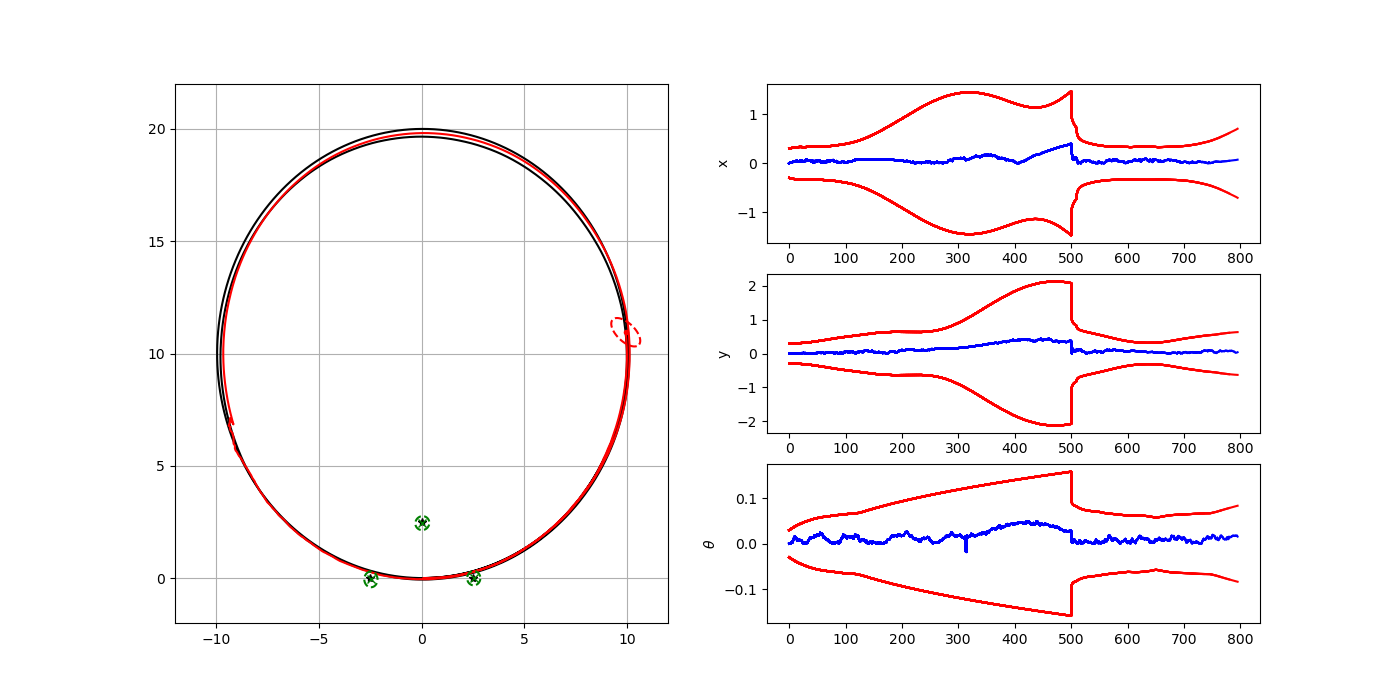
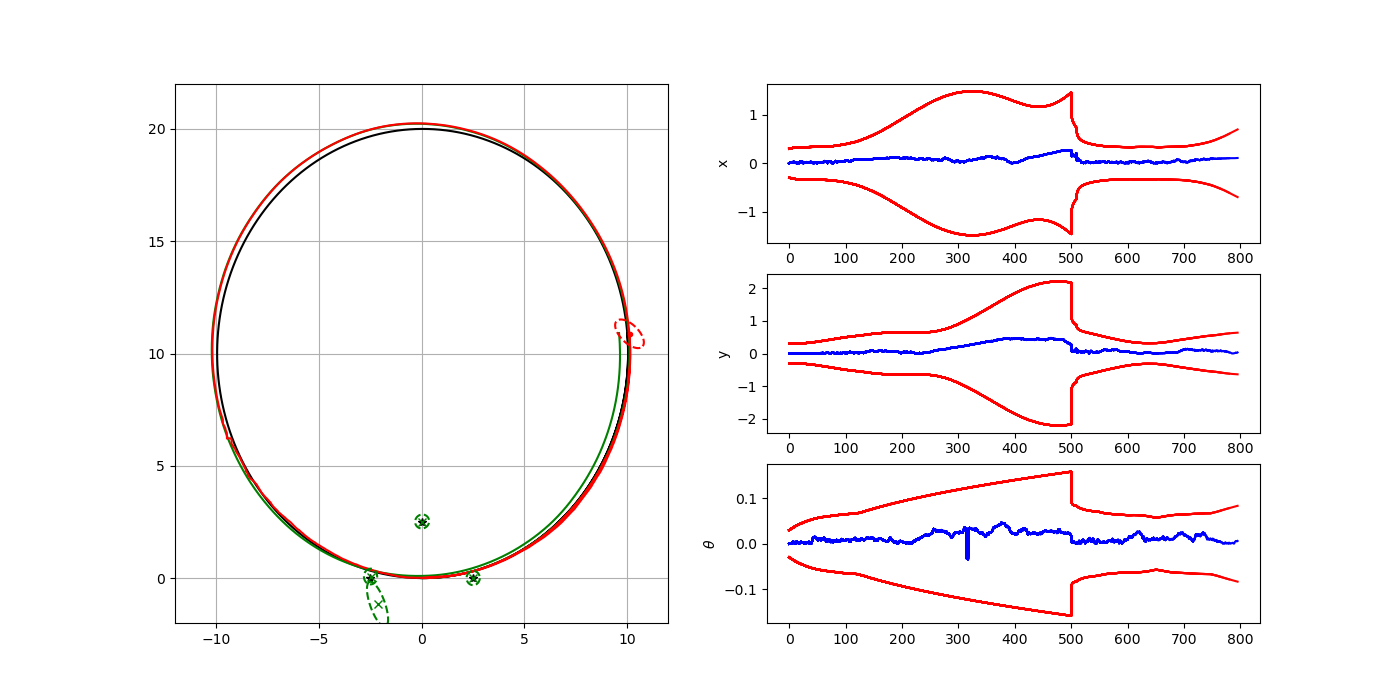
Change odom color

diff --git a/TP4/ekf_slam_complete.py b/TP4/ekf_slam_complete.py
@@ -444,7 +444,7 @@ def main():
             ax1.plot(hxTrue[0, :], hxTrue[1, :], "-k")
 
             # Plot odometry trajectory
-            ax1.plot(hxDR[0, :], hxDR[1, :], "-k")
+            ax1.plot(hxDR[0, :], hxDR[1, :], "-g")
 
             # Plot estimated trajectory, pose and landmarks
             ax1.plot(hxEst[0, :], hxEst[1, :], "-r")
